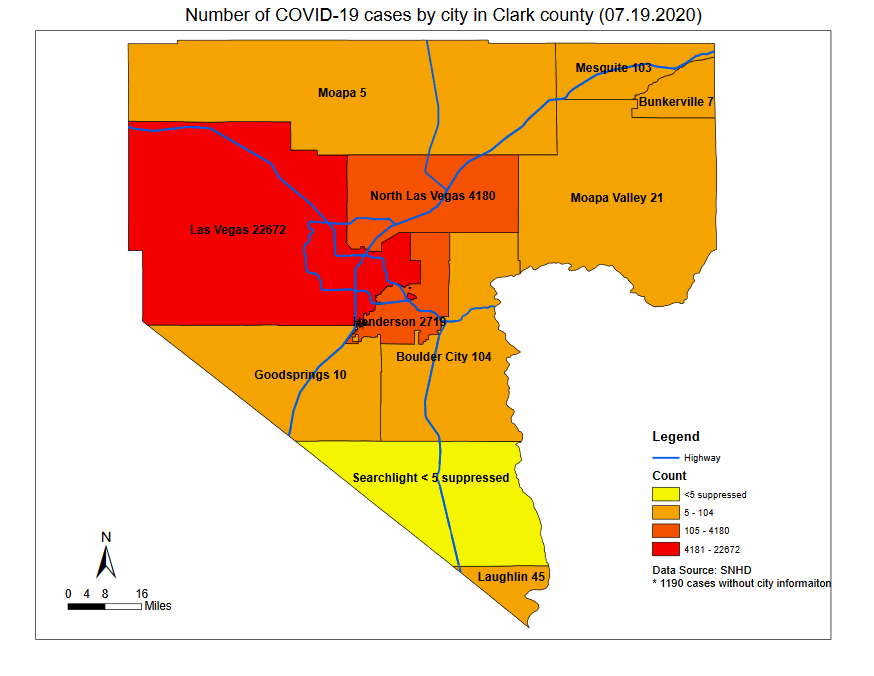
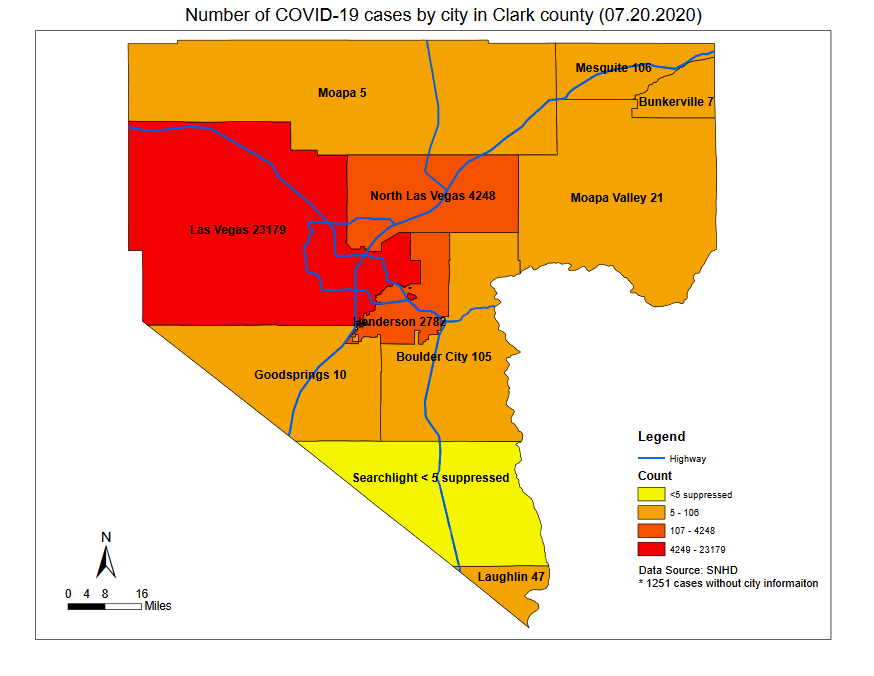
Day 139

diff --git a/src/pages/clarkcounty.js b/src/pages/clarkcounty.js
@@ -154,6 +154,7 @@ class ClarkPage extends Component {
 				'7/17/20',
 				'7/18/20',
 				'7/19/20',
+				'7/20/20',
 			],
 			datasets: [
 				{
@@ -298,6 +299,7 @@ class ClarkPage extends Component {
 						29304,
 						30432,
 						31312,
+						32025,
 					],
 				},
 			],
@@ -443,6 +445,7 @@ class ClarkPage extends Component {
 				'7/17/20',
 				'7/18/20',
 				'7/19/20',
+				'7/20/20',
 			],
 			datasets: [
 				{
@@ -587,6 +590,7 @@ class ClarkPage extends Component {
 						1115,
 						1128,
 						880,
+						713,
 					],
 				},
 			],
@@ -712,6 +716,7 @@ class ClarkPage extends Component {
 				'7/17/20',
 				'7/18/20',
 				'7/19/20',
+				'7/20/20',
 			],
 			datasets: [
 				{
@@ -836,6 +841,7 @@ class ClarkPage extends Component {
 						2424,
 						2437,
 						2442,
+						2466,
 					],
 				},
 			],
@@ -960,6 +966,7 @@ class ClarkPage extends Component {
 				'7/17/20',
 				'7/18/20',
 				'7/19/20',
+				'7/20/20',
 			],
 			datasets: [
 				{
@@ -1084,6 +1091,7 @@ class ClarkPage extends Component {
 						17,
 						13,
 						5,
+						24,
 					],
 				},
 			],
@@ -1229,6 +1237,7 @@ class ClarkPage extends Component {
 				'7/17/20',
 				'7/18/20',
 				'7/19/20',
+				'7/20/20',
 			],
 			datasets: [
 				{
@@ -1372,6 +1381,7 @@ class ClarkPage extends Component {
 						527,
 						527,
 						527,
+						553,
 					],
 					backgroundColor: 'maroon',
 				},
@@ -1506,6 +1516,7 @@ class ClarkPage extends Component {
 				'7/17/20',
 				'7/18/20',
 				'7/19/20',
+				'7/20/20',
 			],
 			datasets: [
 				{
@@ -1638,6 +1649,7 @@ class ClarkPage extends Component {
 						9,
 						0,
 						0,
+						26,
 					],
 				},
 			],
@@ -1783,6 +1795,7 @@ class ClarkPage extends Component {
 				'7/17/20',
 				'7/18/20',
 				'7/19/20',
+				'7/20/20',
 			],
 			datasets: [
 				{
@@ -1913,19 +1926,20 @@ class ClarkPage extends Component {
 						13.5,
 						13.5,
 						13.7,
-						14.8,
+						14.9,
 						15.0,
-						15.2,
+						15.3,
 						15.7,
-						15.8,
 						15.9,
 						16.0,
-						15.5,
 						16.1,
+						15.6,
+						16.2,
 						16.1,
-						16.5,
+						16.3,
+						16.7,
 						16.9,
-						17.4,
+						16.7,
 						null,
 						null,
 						null,
@@ -2004,6 +2018,7 @@ class ClarkPage extends Component {
 						null,
 						null,
 						null,
+						6.9,
 						6.9,
 						6.9,
 						6.9,
@@ -2224,6 +2239,7 @@ class ClarkPage extends Component {
 						3.9,
 						3.9,
 						3.9,
+						3.9,
 					],
 				},
 			],
@@ -2234,7 +2250,7 @@ class ClarkPage extends Component {
 			datasets: [
 				{
 					label: 'Age of Cases',
-					data: [581, 2146, 3902, 15215, 6224, 3222],
+					data: [597, 2186, 4003, 15612, 6327, 3278],
 					backgroundColor: [
 						'rgb(54, 162, 235)', //blue
 						'rgb(255, 99, 132)', //salmon
@@ -2252,7 +2268,7 @@ class ClarkPage extends Component {
 			datasets: [
 				{
 					label: 'Sex',
-					data: [15945, 15085, 281],
+					data: [16293, 15444, 287],
 					backgroundColor: [
 						'rgb(255, 99, 132)',
 						'rgb(54, 162, 235)',
@@ -2294,7 +2310,7 @@ class ClarkPage extends Component {
 											</div>
 										</div>
 										<div className='card-value pt-4'>
-											<h1>31,312</h1>
+											<h1>32,025</h1>
 										</div>
 									</div>
 								</div>
@@ -2306,7 +2322,7 @@ class ClarkPage extends Component {
 											</div>
 										</div>
 										<div className='card-value pt-4'>
-											<h1>2,442</h1>
+											<h1>2,466</h1>
 										</div>
 									</div>
 								</div>
@@ -2318,7 +2334,7 @@ class ClarkPage extends Component {
 											</div>
 										</div>
 										<div className='card-value pt-4'>
-											<h1>66.5%</h1>
+											<h1>69.0%</h1>
 										</div>
 									</div>
 								</div>
@@ -2330,7 +2346,7 @@ class ClarkPage extends Component {
 											</div>
 										</div>
 										<div className='card-value pt-4'>
-											<h1>527</h1>
+											<h1>553</h1>
 										</div>
 									</div>
 								</div>

diff --git a/src/pages/nevada.js b/src/pages/nevada.js
@@ -149,6 +149,7 @@ class NevadaPage extends Component {
 				'7/17/20',
 				'7/18/20',
 				'7/19/20',
+				'7/20/20',
 			],
 			datasets: [
 				{
@@ -292,6 +293,7 @@ class NevadaPage extends Component {
 						34477,
 						35765,
 						36713,
+						37528,
 					],
 					fill: false, // Don't fill area under the line
 					backgroundColor: '#933A16', // Line color
@@ -438,6 +440,7 @@ class NevadaPage extends Component {
 				'7/17/20',
 				'7/18/20',
 				'7/19/20',
+				'7/20/20',
 			],
 			datasets: [
 				{
@@ -582,6 +585,7 @@ class NevadaPage extends Component {
 						1182,
 						1288,
 						948,
+						815,
 					],
 					fill: false, // Don't fill area under the line
 					backgroundColor: '#933A16', // Bar color
@@ -728,6 +732,7 @@ class NevadaPage extends Component {
 				'7/17/20',
 				'7/18/20',
 				'7/19/20',
+				'7/20/20',
 			],
 			datasets: [
 				{
@@ -858,19 +863,20 @@ class NevadaPage extends Component {
 						564,
 						571,
 						578,
-						587,
-						596,
-						601,
-						613,
-						620,
-						626,
-						633,
-						638,
-						643,
-						646,
-						646,
+						588,
+						597,
+						603,
+						615,
+						622,
+						629,
+						639,
 						647,
-						647,
+						653,
+						661,
+						664,
+						667,
+						671,
+						671,
 					],
 					backgroundColor: 'maroon',
 				},
@@ -1005,6 +1011,7 @@ class NevadaPage extends Component {
 				'7/17/20',
 				'7/18/20',
 				'7/19/20',
+				'7/20/20',
 			],
 			datasets: [
 				{
@@ -1124,18 +1131,19 @@ class NevadaPage extends Component {
 						5,
 						7,
 						7,
+						10,
 						9,
-						9,
-						5,
+						6,
 						12,
 						7,
-						6,
 						7,
-						5,
-						5,
+						10,
+						8,
+						6,
+						8,
 						3,
-						0,
-						1,
+						3,
+						4,
 						0,
 					],
 				},
@@ -1262,6 +1270,7 @@ class NevadaPage extends Component {
 				'7/17/20',
 				'7/18/20',
 				'7/19/20',
+				'7/20/20',
 			],
 			datasets: [
 				{
@@ -1388,6 +1397,7 @@ class NevadaPage extends Component {
 						9.1,
 						9.2,
 						9.3,
+						9.5,
 					],
 				},
 				{
@@ -1514,6 +1524,7 @@ class NevadaPage extends Component {
 						19.7,
 						20.4,
 						20.6,
+						22.0,
 					],
 				},
 				{
@@ -1569,6 +1580,7 @@ class NevadaPage extends Component {
 						null,
 						null,
 						null,
+						10.4,
 						10.4,
 						10.4,
 						10.4,
@@ -1768,6 +1780,7 @@ class NevadaPage extends Component {
 						6.0,
 						6.0,
 						6.0,
+						6.0,
 					],
 				},
 			],
@@ -1803,7 +1816,7 @@ class NevadaPage extends Component {
 										</div>
 									</div>
 									<div className='card-value pt-4'>
-										<h1>392,988</h1>
+										<h1>396,079</h1>
 									</div>
 								</div>
 							</div>
@@ -1815,7 +1828,7 @@ class NevadaPage extends Component {
 										</div>
 									</div>
 									<div className='card-value pt-4'>
-										<h1>358,708</h1>
+										<h1>361,294</h1>
 									</div>
 								</div>
 							</div>
@@ -1827,7 +1840,7 @@ class NevadaPage extends Component {
 										</div>
 									</div>
 									<div className='card-value pt-4'>
-										<h1>36,713</h1>
+										<h1>37,528</h1>
 									</div>
 								</div>
 							</div>
@@ -1839,7 +1852,7 @@ class NevadaPage extends Component {
 										</div>
 									</div>
 									<div className='card-value pt-4'>
-										<h1>647</h1>
+										<h1>671</h1>
 									</div>
 								</div>
 							</div>
